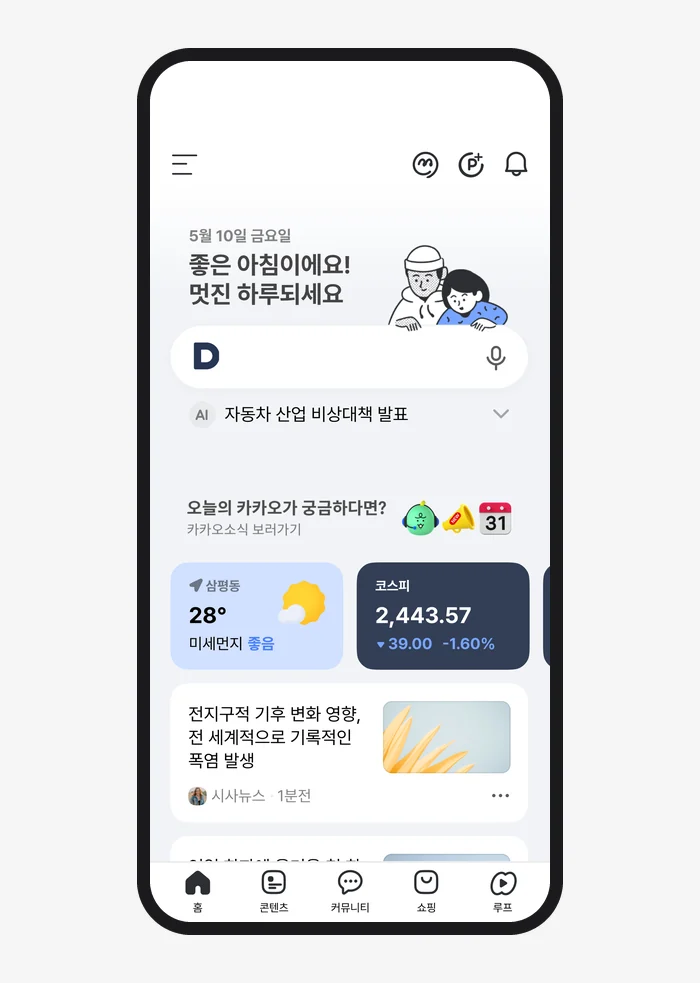
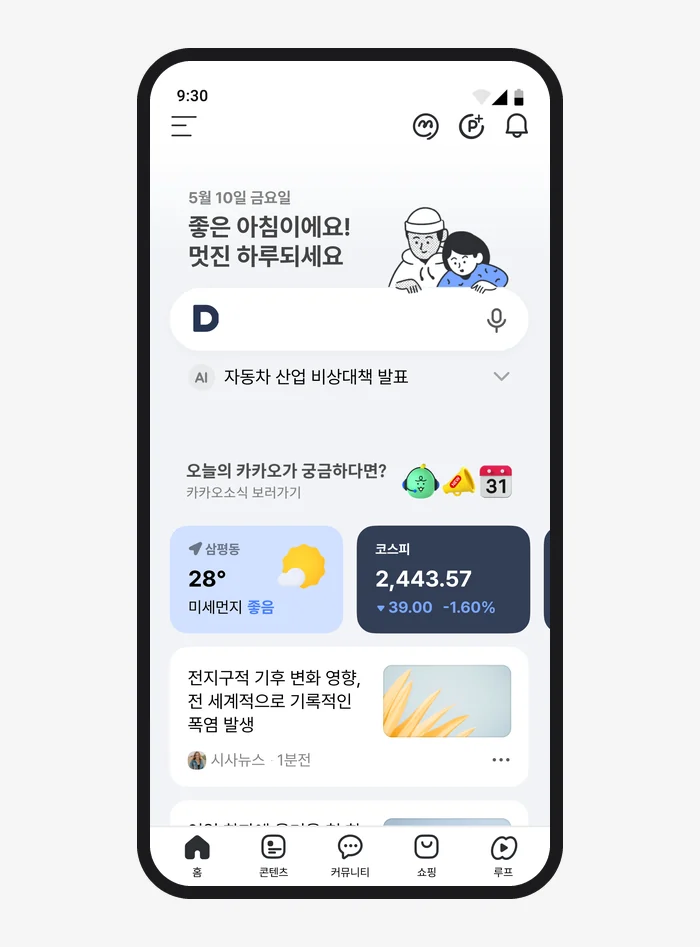
다음앱 상세 페이지: 안드로이드 상태바 추가, 캡처 테두리 정리, 본문을 문제 정의~회고 에세이형으로 확장

diff --git a/daum-app.html b/daum-app.html
@@ -23,14 +23,14 @@
   <article class="cs">
     <figure class="cs-hero">
       <picture>
-        <source media="(max-width:820px)" srcset="img/daumapp/hero-m.webp" width="700" height="983">
-        <img src="img/daumapp/hero.webp" width="2240" height="1329" alt="개편 후 다음앱 화면 두 장. 왼쪽은 인사말·검색·날씨와 증시 위젯 아래로 피드가 시작되는 홈, 오른쪽은 새로 추천받기 버튼이 떠 있는 피드">
+        <source media="(max-width:820px)" srcset="img/daumapp/hero-m.webp?v=202610181730" width="700" height="983">
+        <img src="img/daumapp/hero.webp?v=202610181730" width="2240" height="1329" alt="개편 후 다음앱 화면 두 장. 왼쪽은 인사말·검색·날씨와 증시 위젯 아래로 피드가 시작되는 홈, 오른쪽은 새로 추천받기 버튼이 떠 있는 피드">
       </picture>
     </figure>
 
     <header class="cs-head cs-col">
       <h1>다음앱 전면 개편</h1>
-      <p class="cs-lede">기존 뉴스 이용을 유지하면서 다양한 콘텐츠와 서비스를 담기 위해 앱 구조를 개편했습니다.</p>
+      <p class="cs-lede">뉴스 중심의 상단 탭으로 오래 운영된 다음앱을 하단 내비게이션 중심으로 개편했습니다. 기존 뉴스 이용을 유지하면서 다양한 콘텐츠와 서비스를 담기 위해서였습니다. 저는 새 구조의 첫 화면인 홈 탭과 통합피드를 맡아, 정보 확인에서 콘텐츠 탐색으로 이어지는 흐름을 설계했습니다.</p>
       <dl class="cs-meta">
         <div><dt>Year</dt><dd>2024.04 – 2025.01</dd></div>
         <div><dt>Role</dt><dd>Product Designer</dd></div>
@@ -40,63 +40,69 @@
 
     <section class="cs-block">
       <figure class="cs-fig">
-        <picture><source media="(max-width:820px)" srcset="img/daumapp/slots-m.webp" width="1000" height="3809"><img src="img/daumapp/slots.webp" width="2240" height="1334" alt="개편 전 뉴스탭의 슬롯 세 개와 클릭 비중. 실시간 뉴스 91.41%, 언론사가 주목한 이슈 0.90%, 당신을 위한 추천 키워드 0.80%. 첫 화면 캡처의 괄호는 실시간 뉴스 영역을 가리킨다" loading="lazy"></picture>
+        <picture><source media="(max-width:820px)" srcset="img/daumapp/slots-m.webp?v=202610181730" width="1000" height="3809"><img src="img/daumapp/slots.webp?v=202610181730" width="2240" height="1334" alt="개편 전 뉴스탭의 슬롯 세 개와 클릭 비중. 실시간 뉴스 91.41%, 언론사가 주목한 이슈 0.90%, 당신을 위한 추천 키워드 0.80%. 첫 화면 캡처의 괄호는 실시간 뉴스 영역을 가리킨다" loading="lazy"></picture>
       </figure>
       <div class="cs-sec cs-col">
-        <p class="cs-label">출발점</p>
-        <h2>실시간 뉴스에 클릭이 집중됐고, 아래의 추천 콘텐츠는 클릭 비중이 낮았습니다</h2>
-        <p>개편 전 뉴스탭 전체 클릭 중 각 슬롯이 차지한 비중입니다. 실시간 뉴스가 91.41%였고, 그 아래의 언론사가 주목한 이슈와 당신을 위한 추천 키워드는 각각 1%에 못 미쳤습니다.</p>
+        <p class="cs-label">문제 정의</p>
+        <h2>클릭은 첫 화면의 실시간 뉴스에 몰려 있었습니다</h2>
+        <p>개편 전 다음앱은 뉴스·언론사·연예·쇼핑 같은 탭을 화면 위에 나란히 두는 구조였습니다. 종이 신문을 넘겨 보던 방식에서 출발한 구조라, 이용이 첫 탭의 첫 화면에 모이기 쉬웠습니다.</p>
+        <p>뉴스탭 안에서도 마찬가지였습니다. 개편 전 뉴스탭 전체 클릭 중 실시간 뉴스가 91.41%를 차지했고, 그 아래의 언론사가 주목한 이슈와 당신을 위한 추천 키워드는 각각 1%에 미치지 못했습니다. 아래에 콘텐츠를 더 준비해도 사용자에게 닿기 어려운 구조였습니다.</p>
+        <p>개편 팀은 이 구조의 한계를 세 가지로 정리했습니다. 첫 화면 밖의 탭은 활성화되기 어려웠고, 새 탭을 더하면 기존 탭의 이용을 나눠 갖게 되어 탭을 열고 닫기도 쉽지 않았습니다. 탭 안에서도 클릭은 최상단에 몰렸습니다.</p>
       </div>
     </section>
     <section class="cs-block">
       <figure class="cs-fig">
-        <picture><source media="(max-width:820px)" srcset="img/daumapp/switch-m.webp" width="700" height="1871"><img src="img/daumapp/switch.webp" width="2240" height="1210" alt="개편 전후 비교 크롭. 왼쪽은 화면 위쪽에 뉴스·언론사·연예 같은 탭이 늘어선 개편 전 상단 탭, 오른쪽은 화면 아래에 홈·콘텐츠·커뮤니티·쇼핑·루프가 놓인 개편 후 하단 내비게이션" loading="lazy"></picture>
+        <picture><source media="(max-width:820px)" srcset="img/daumapp/switch-m.webp?v=202610181730" width="700" height="1871"><img src="img/daumapp/switch.webp?v=202610181730" width="2240" height="1210" alt="개편 전후 비교 크롭. 왼쪽은 화면 위쪽에 뉴스·언론사·연예 같은 탭이 늘어선 개편 전 상단 탭, 오른쪽은 화면 아래에 홈·콘텐츠·커뮤니티·쇼핑·루프가 놓인 개편 후 하단 내비게이션" loading="lazy"></picture>
       </figure>
       <div class="cs-sec cs-col">
-        <p class="cs-label">배경</p>
-        <h2>하단 내비게이션을 중심으로 앱의 전체 구조를 재설계했습니다</h2>
-        <p>상단에 이용이 집중되는 패턴이 오랫동안 이어졌고, 기존 구조의 한계도 누적됐습니다. 다음앱의 다음 단계를 위한 첫걸음으로, 하단 내비게이션을 중심으로 앱의 주요 영역을 다시 구성했습니다.</p>
-        <p>홈에는 검색·생활 정보와 통합피드를 함께 구성했습니다. 저는 새 구조 안에서 홈 탭과 피드의 디자인을 담당했습니다.</p>
+        <p class="cs-label">해결 방향</p>
+        <h2>탭을 더 늘어놓는 대신, 앱의 뼈대를 하단 내비게이션으로 옮겼습니다</h2>
+        <p>상단 탭의 순서나 높이를 조정하는 정도로는 풀리지 않는 문제였습니다. 다음앱의 다음 단계를 위한 첫걸음으로, 하단 내비게이션을 중심으로 앱의 주요 영역을 다시 구성했습니다. 한 줄로 이어지던 탭은 홈·콘텐츠·커뮤니티·쇼핑·루프라는 다섯 영역으로 정리됐습니다.</p>
+        <p>방향은 세 가지였습니다. 첫 화면을 여러 개로 늘려 뉴스에 몰린 이용을 나누는 접근성, 흐름에 맞춰 영역을 열고 닫을 수 있는 유연성, 뉴스 밖의 콘텐츠와 서비스까지 담을 수 있는 확장성입니다.</p>
+        <p>저는 새 구조의 첫 번째 탭인 홈과 그 아래 통합피드의 디자인을 맡았습니다. 기존 뉴스 이용을 지키면서 다른 콘텐츠로 시선을 넓히는 일이, 새 구조에서 홈이 맡아야 할 역할이었습니다.</p>
       </div>
     </section>
     <section class="cs-block">
       <figure class="cs-fig">
-        <picture><source media="(max-width:820px)" srcset="img/daumapp/firstcard-m.webp" width="1000" height="1362"><img src="img/daumapp/firstcard.webp" width="2240" height="1462" alt="개편 후 홈 첫 화면과 오른쪽 괄호. 위에서부터 홈 상단, 날씨·증시 위젯 아래의 피드 첫 아이템, 하단 탭바" loading="lazy"></picture>
+        <picture><source media="(max-width:820px)" srcset="img/daumapp/firstcard-m.webp?v=202610181730" width="1000" height="1362"><img src="img/daumapp/firstcard.webp?v=202610181730" width="2240" height="1462" alt="개편 후 홈 첫 화면과 오른쪽 괄호. 위에서부터 홈 상단, 날씨·증시 위젯 아래의 피드 첫 아이템, 하단 탭바" loading="lazy"></picture>
       </figure>
       <div class="cs-sec cs-col">
-        <p class="cs-label">홈</p>
-        <h2>첫 화면 안에 피드의 시작을 드러냈습니다</h2>
-        <p>홈 상단에서 아래의 콘텐츠 탐색으로 이어지도록, 첫 화면에 통합피드의 첫 아이템을 보여주는 방식을 제안했습니다.</p>
-        <p>이 배치는 2025년 1월 출시 버전에 반영됐습니다.</p>
+        <p class="cs-label">홈 설계</p>
+        <h2>첫 화면 안에서 피드가 시작되도록 했습니다</h2>
+        <p>홈은 검색과 날씨·증시 같은 생활 정보를 담는 상단, 그리고 그 아래로 이어지는 통합피드로 구성됐습니다. 이 구성에 이르기까지 팀은 홈 없이 여는 안, 기존 언론사탭을 홈으로 옮기는 안, 피드 없이 상단만 두는 안까지 함께 비교했습니다.</p>
+        <p>남은 문제는 두 영역의 경계였습니다. 상단 정보가 첫 화면을 다 채우면, 사용자는 날씨와 증시를 확인한 뒤 아래에 피드가 있다는 것을 모른 채 앱을 닫을 수 있습니다. 개편 전 뉴스탭에서 아래 슬롯이 거의 눌리지 않았던 상황이 새 홈에서 반복될 수 있다고 봤습니다.</p>
+        <p>그래서 첫 화면 안에 통합피드의 첫 아이템이 보이도록 하는 방식을 제안했습니다. 위젯 바로 아래에서 첫 카드의 제목과 이미지가 시작되면, 스크롤하기 전에도 아래에 읽을거리가 이어진다는 것을 알 수 있습니다. 이 배치는 2025년 1월 출시 버전에 반영됐습니다.</p>
       </div>
     </section>
     <section class="cs-block">
       <figure class="cs-fig">
-        <picture><source media="(max-width:820px)" srcset="img/daumapp/feed-m.webp" width="1000" height="3409"><img src="img/daumapp/feed.webp" width="2240" height="1435" alt="피드 화면 두 장과 번호. 1 새로 추천받기, 2 큰 이미지 카드, 3 텍스트 중심 카드, 4 콘텐츠와 매체 숨기기, 5 추천 피드백과 실행 취소" loading="lazy"></picture>
+        <picture><source media="(max-width:820px)" srcset="img/daumapp/feed-m.webp?v=202610181730" width="1000" height="3409"><img src="img/daumapp/feed.webp?v=202610181730" width="2240" height="1435" alt="피드 화면 두 장과 번호. 1 새로 추천받기, 2 큰 이미지 카드, 3 텍스트 중심 카드, 4 콘텐츠와 매체 숨기기, 5 추천 피드백과 실행 취소" loading="lazy"></picture>
       </figure>
       <div class="cs-sec cs-col">
-        <p class="cs-label">피드</p>
-        <h2>콘텐츠를 읽고, 다음 추천을 조절하는 피드</h2>
-        <p>텍스트 중심 카드와 큰 이미지 카드로 콘텐츠의 성격을 구분했습니다.</p>
-        <p>원치 않는 콘텐츠나 매체를 숨기고, 새로 추천받을 수 있는 기능을 피드 안에 함께 구성했습니다.</p>
+        <p class="cs-label">피드 설계</p>
+        <h2>읽기 편한 카드와, 다음 추천을 고를 수 있는 장치를 함께 두었습니다</h2>
+        <p>통합피드는 뉴스와 그 밖의 콘텐츠가 한 흐름 안에 섞이는 곳입니다. 성격이 다른 콘텐츠가 이어지는 만큼, 카드마다 읽는 방식이 달라야 했습니다. 제목으로 내용을 판단하는 기사는 텍스트 중심 카드로, 이미지가 곧 내용인 콘텐츠는 큰 이미지 카드로 나눴습니다. 유형이 많아지면 피드가 산만해지기 때문에, 출시 시점에는 몇 가지 유형으로 시작했습니다.</p>
+        <p>추천이 빗나갔을 때 사용자가 할 수 있는 일도 필요했습니다. 카드의 더보기 메뉴에서 콘텐츠나 매체를 숨길 수 있고, 숨긴 뒤에는 비슷한 콘텐츠를 덜 추천하겠다는 안내와 실행 취소를 함께 보여줍니다. 피드 위에는 새로 추천받기 버튼을 두어, 지금 보이는 목록이 맞지 않으면 바로 바꿀 수 있게 했습니다.</p>
+        <p>숨기기와 피드백은 카드의 메뉴 안에 두어 읽는 흐름을 가리지 않게 했습니다. 피드의 이 기능들은 시안대로 출시됐습니다.</p>
       </div>
     </section>
     <section class="cs-block">
       <figure class="cs-fig">
-        <picture><source media="(max-width:820px)" srcset="img/daumapp/result-m.webp" width="1000" height="900"><img src="img/daumapp/result.webp" width="2240" height="820" alt="다음앱 전체 주간 활성 사용자의 개편 전후 비교 막대. 개편 후가 18.09% 높다" loading="lazy"></picture>
+        <picture><source media="(max-width:820px)" srcset="img/daumapp/result-m.webp?v=202610181730" width="1000" height="900"><img src="img/daumapp/result.webp?v=202610181730" width="2240" height="820" alt="다음앱 전체 주간 활성 사용자의 개편 전후 비교 막대. 개편 후가 18.09% 높다" loading="lazy"></picture>
       </figure>
       <div class="cs-sec cs-col">
         <p class="cs-label">결과</p>
-        <h2>개편 이후, 사용자 활성도의 변화를 확인했습니다</h2>
-        <p>다음앱 전면 개편 이후 주간 활성 사용자 수가 18.09% 증가한 것으로 기존 결과 자료에 기록되어 있습니다.</p>
-        <p>이는 홈·피드를 포함한 전체 개편 프로젝트의 결과로, 개별 디자인 영역의 효과와는 구분해 해석해야 합니다.</p>
+        <h2>개편 이후 주간 활성 사용자가 18.09% 늘었습니다</h2>
+        <p>기존 결과 자료에는 다음앱 전면 개편 이후 주간 활성 사용자 수가 개편 전보다 18.09% 증가한 것으로 기록되어 있습니다.</p>
+        <p>이 수치는 앱 구조 전환과 홈·피드를 포함한 전체 개편의 결과입니다. 첫 화면의 피드 노출이 스크롤이나 피드 클릭에 준 영향은 따로 측정한 기록을 확인하지 못해, 개별 디자인의 효과로 나누어 말하지 않습니다.</p>
       </div>
     </section>
 
     <section class="cs-sec cs-col">
       <p class="cs-label">회고</p>
-      <h2>홈은 콘텐츠의 종착지가 아니라, 서비스 탐색의 출발점이어야 한다고 생각했습니다</h2>
-      <p>이번 개편에서는 더 많은 정보를 보여주는 것보다 사용자가 다음 행동을 발견하고 선택할 수 있는 구조를 만드는 데 집중했습니다.</p>
+      <h2>홈은 서비스 탐색의 출발점이어야 한다고 생각했습니다</h2>
+        <p>이번 개편에서는 더 많은 정보를 보여주는 것보다, 사용자가 다음 행동을 발견하고 선택할 수 있는 구조를 만드는 데 집중했습니다. 첫 화면에 피드의 시작을 드러낸 것도, 추천을 사용자가 조절할 수 있게 한 것도 같은 생각에서 나온 판단이었습니다.</p>
+        <p>다음앱에서는 앱 구조 전체를 다시 짤 수 있었기 때문에 이 문제를 재설계로 풀었습니다. 지금 맡고 있는 카카오톡 더보기탭도 이용이 첫 화면에 머무는 같은 문제를 안고 있지만, 여러 이해관계 때문에 한 번에 바꿀 수 없는 지면이라 실험으로 하나씩 검증하고 있습니다.</p>
     </section>
 
     <section class="cs-sec cs-role cs-col">
@@ -104,7 +110,7 @@
       <div class="cs-role-grid">
         <div>
           <h3>담당한 것</h3>
-          <ul><li>홈 탭 디자인</li><li>통합피드 디자인</li><li>첫 화면의 피드 첫 아이템 노출 제안</li></ul>
+          <ul><li>홈 탭 디자인</li><li>통합피드 디자인</li><li>첫 화면의 피드 첫 아이템 노출 제안</li><li>피드 카드 유형과 추천 조절 장치의 화면 설계</li></ul>
         </div>
         <div>
           <h3>함께 한 것</h3>
